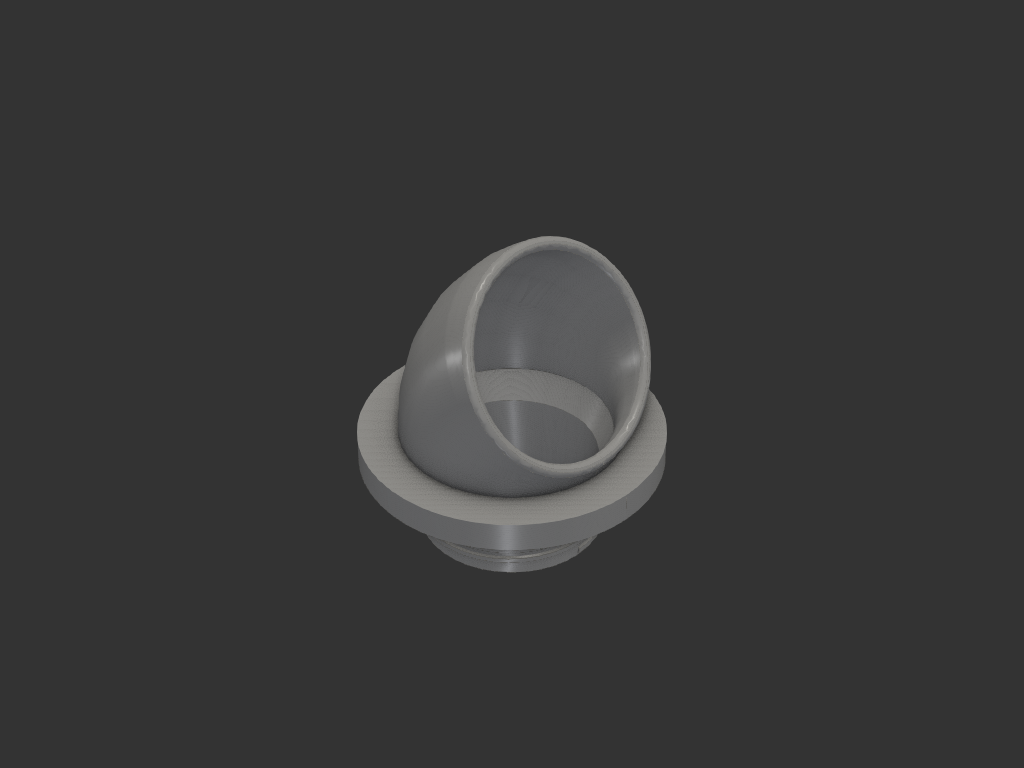
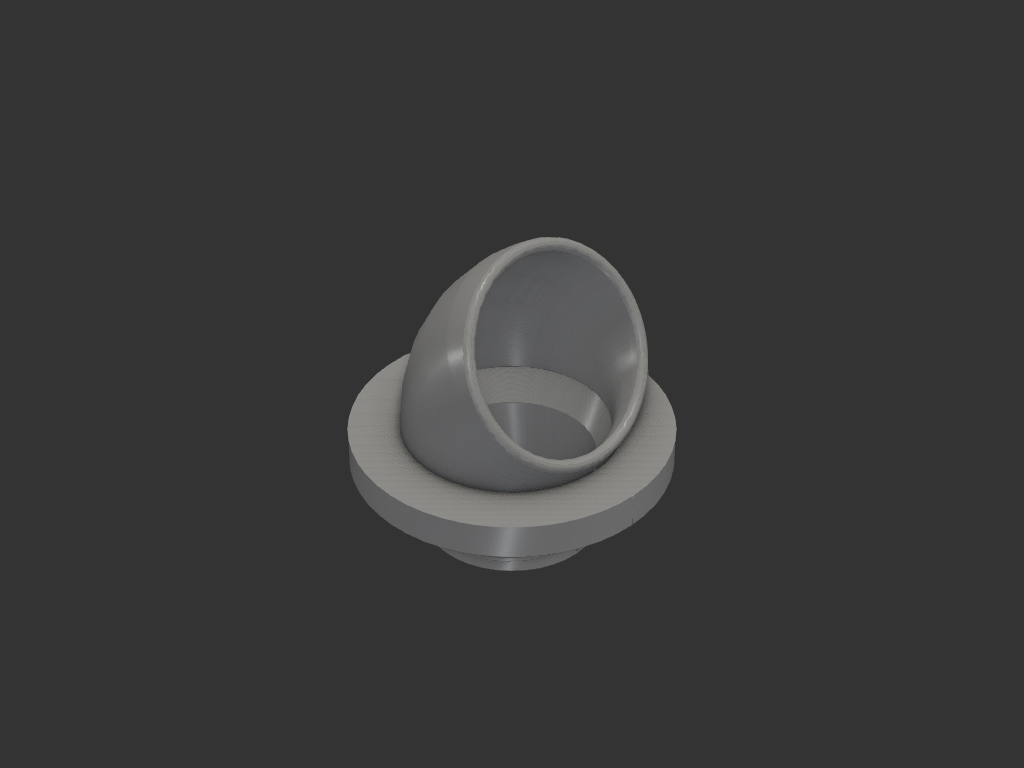
주방/식기세척기관_싱크대커버: 보유 오링(38x3.5)에 맞춰 홈 재설계
사용자 보유 오링이 내경 38 일 때 굵기가 3.5 였다. 2.4 로 잡아둔 홈을
다시 팠다 — 중심 ⌀41.5, 폭 4.55, 깊이 2.66 (눌림 24%, 채움 79%).

홈이 ⌀36.95~46.05 까지 나가면서 따라 바뀐 것:
- 플랜지 ⌀50x5 → ⌀54x6. 바깥 테두리 4mm 확보
- 이음 모따기 ⌀35 → ⌀34. 홈 안쪽 벽이 0.98 → 1.48mm
- 두께를 6 으로 올린 이유는 최소 단면이 "두께 − 홈 깊이" 이기 때문이다.
  5 면 유효 2.34 로 15.4 MPa, 6 이면 3.34 로 7.6 MPa (여유 6.6 배)

보어 전 구간 관통 재확인.

Claude-Session: https://claude.ai/code/session_01ADtXUDQy3sb4YV2DNysYDr

Changed region(s): [[0.3125, 0.4375, 0.6875, 0.7188], [0.4688, 0.7188, 0.5312, 0.75]]

diff --git a/models/주방/식기세척기관_싱크대커버/params.py b/models/주방/식기세척기관_싱크대커버/params.py
@@ -55,8 +55,10 @@ THREAD_EMB = 0.2       # 나사산 뿌리를 칼라 속에 묻는 양.
 COLLAR_ROOT = COLLAR_OD - 2 * THREAD_DEPTH    # 30.2 — 나사 골지름
 
 # ---- 플랜지 (상판 위에 앉는 판) ----
-FLANGE_D = 50.0        # 46 → 50. 오링을 모따기 바깥으로 밀어내면서 커졌다
-FLANGE_T = 5.0         # 4 → 5. 조임 400N 에서 굽힘 5.0 → 3.2 MPa
+FLANGE_D = 54.0        # 오링 굵기 3.5 를 쓰게 되어 홈이 ⌀46.05 까지 나간다.
+                       # 바깥 테두리 4mm 를 남기려면 ⌀54 가 필요하다
+FLANGE_T = 6.0         # 홈이 2.66 깊어져 최소 단면이 두께−홈깊이 다.
+                       # 5 면 유효 2.34 로 15.4 MPa, 6 이면 3.34 로 7.6 MPa
 FLANGE_R = 1.5         # 윗 모서리 라운드
 
 # 칼라–플랜지 이음이 **가장 빠듯한 곳**이다. ⌀31 에서 ⌀46 으로 꺾이는 직각 턱에
@@ -64,19 +66,18 @@ FLANGE_R = 1.5         # 윗 모서리 라운드
 # 공칭 5.1 MPa 에 집중 3 배면 15 MPa, 층간 강도 30 의 절반까지 올라간다.
 # 릴리프를 파서 그 안에 필렛을 넣으면 8 MPa 로 내려간다 (여유 3.8 배).
 # 릴리프는 오링 홈 안쪽 가장자리(⌀35.9)를 침범하지 않아야 한다
-CHAM_D = 35.0          # 칼라–플랜지 이음을 **45도 모따기**로 푼다.
+CHAM_D = 34.0          # 칼라–플랜지 이음을 **45도 모따기**로 푼다.
                        # 필렛을 쓰려 했으나 릴리프 안쪽이 칼라와 정확히 접해
                        # 모서리가 안 생겨 필렛이 안 걸렸고, 깔때기와 겹쳐
                        # 살을 0.6mm 로 깎기까지 했다.
                        # 모따기는 집중계수를 3 → 1.8 로 낮추고(15 → 9 MPa),
                        # 45도라 칼라를 아래로 두고 뽑을 때 **자기지지**다.
-                       # 상판에 닿는 면은 ⌀35~46 이 되고 오링 홈(⌀35.9~40.4)이
-                       # 그 안에 0.45mm 여유로 들어간다
+                       # 상판에 닿는 면은 ⌀34~54. 오링 홈(⌀36.95~46.05) 안쪽에
+                       # 벽이 1.48mm 남는다 (⌀35 면 0.98 로 얇았다)
 
 # ---- 오링 (내경 35 × 굵기 2.5 실리콘) ----
-ORING_ID = 38.0        # 35 → 38. 홈 안쪽 벽이 이음 모따기(끝 ⌀35)에 먹혔다.
-                       # 지금은 홈 안쪽이 ⌀37.3 이라 벽이 1.14mm 남는다
-ORING_CORD = 2.4       # 미터 오링 키트에 흔한 굵기
+ORING_ID = 38.0        # **사용자 보유 오링**: 내경 38 일 때 굵기가 3.5 다
+ORING_CORD = 3.5       # 보유품 실측. 홈 폭·깊이가 여기서 따라 나온다
 ORING_MEAN = ORING_ID + ORING_CORD       # 37.5 — 홈 중심 지름
 ORING_W = ORING_CORD * 1.3               # 3.25 — 홈 폭
 ORING_DEPTH = ORING_CORD * 0.76          # 1.90 — 눌림 24%

diff --git a/models/주방/식기세척기관_싱크대커버/export.py b/models/주방/식기세척기관_싱크대커버/export.py
@@ -14,7 +14,7 @@
   nut    바닥을 bed 에. 나사산이 수직이라 오버행 없음
 
 재료: PETG. 배수가 뜨거운 물이고(Tg 80도) 습한 자리다. PLA 는 Tg 60도라 부적합.
-오링: **내경 38 × 굵기 2.4 실리콘**. 홈이 그 치수로 파여 있다.
+오링: **내경 38 × 굵기 3.5 실리콘** (보유품). 홈이 그 치수로 파여 있다.
 """
 
 from pathlib import Path

diff --git a/models/주방/식기세척기관_싱크대커버/README.md b/models/주방/식기세척기관_싱크대커버/README.md
@@ -37,7 +37,7 @@
 
 | | 파츠 | 역할 | 무게 |
 |---|---|---|---|
-| ① | `cover` | 상판 위 플랜지(아랫면 오링 홈) + 엘보 + 구멍을 지나는 칼라 | 14.6 g |
+| ① | `cover` | 상판 위 플랜지(아랫면 오링 홈) + 엘보 + 구멍을 지나는 칼라 | 17.6 g |
 | ② | `nut` | 아래에서 칼라에 끼워 올려 조인다. 상판을 물고 오링을 누른다 | 5.7 g |
 
 조립:
@@ -100,16 +100,16 @@
 | 칼라 길이 | 13 (파일럿 2 + 빈 1 + 나사 9) | 파일럿 ⌀31.0 이 구멍 안에서 중심을 잡는다 |
 | 나사 | 피치 2.0, 깊이 **0.4**, 골 ⌀30.2 | 골에서 남는 살 0.85. **4.5 바퀴** 조임 |
 | 나사 여유 | 0.2 (반지름) | |
-| 플랜지 | ⌀**50** × **5** | 오링을 이음 모따기 바깥으로 밀어내며 커졌다 |
-| 이음 모따기 | ⌀31 → ⌀35, **45°** | 가장 빠듯한 곳. 집중계수 3 → 1.8 |
-| 오링 홈 | 중심 ⌀40.4, 폭 3.12, 깊이 1.82 | **내경 38 × 굵기 2.4**, 눌림 24% |
+| 플랜지 | ⌀**54** × **6** | 오링 굵기 3.5 에 맞춰 커졌다 |
+| 이음 모따기 | ⌀31 → ⌀34, **45°** | 가장 빠듯한 곳. 집중계수 3 → 1.8 |
+| 오링 홈 | 중심 ⌀41.5, 폭 4.55, 깊이 2.66 | **내경 38 × 굵기 3.5** (보유품), 눌림 24%, 채움 79% |
 | 엘보 | R 22, 60°, 보어 ⌀33, 벽 2 | |
 | 출구 나팔 | R 2.5 | 꺾이는 지점의 날카로운 모서리를 없앤다 |
 | 너트 | ⌀42 × 9, 홈 8 개 | 손으로 돌린다 |
 | 상판 위 높이 | **38.8** | |
 
-오링 홈 안쪽 가장자리가 ⌀37.3 이라 구멍(31.5) 바깥 **단단한 상판 위에** 온전히
-앉는다. 홈 안쪽 벽 1.14mm, 바깥 테두리 3.24mm. 조임은 나사라서 상판 두께 편차를 그대로 흡수한다.
+오링 홈 안쪽 가장자리가 ⌀36.95 라 구멍(31.5) 바깥 **단단한 상판 위에** 온전히
+앉는다. 홈 안쪽 벽 1.48mm, 바깥 테두리 3.98mm. 조임은 나사라서 상판 두께 편차를 그대로 흡수한다.
 
 ## 계산
 
@@ -129,7 +129,7 @@
 | 부위 | 응력 | 여유 |
 |---|---|---|
 | 나사산 전단 (4.5 바퀴, 299 mm²) | 1.34 MPa | 22 배 |
-| 플랜지 굽힘 (두께 5, 팔 2.70) | 2.36 MPa | 21 배 |
+| 플랜지 굽힘 (유효 두께 3.34 = 6 − 홈 2.66) | 7.6 MPa | 6.6 배 |
 | 칼라 인장 (단면 78 mm²) | 5.1 MPa | |
 | **칼라–플랜지 이음** (모따기 Kt 1.8) | **9.2 MPa** | **3.3 배** ← 여기 |
 
@@ -186,12 +186,12 @@
 
 | 위치 | 내용 |
 |---|---|
-| 플랜지 아랫면 | ⌀35 → ⌀50 턱, **7.5mm 수평 오버행**. 피할 방법이 없다 — 구멍이 ⌀31 로 묶고 오링이 ⌀50 을 요구한다 |
+| 플랜지 아랫면 | ⌀34 → ⌀54 턱, **10mm 수평 오버행**. 피할 방법이 없다 — 구멍이 ⌀31 로 묶고 오링이 ⌀54 를 요구한다 |
 | 엘보 θ 45~60° | 호 길이 **5.8mm** 뿐 |
 | 이음 모따기 | **불필요** — 45° 라 자기지지 |
 
-**실링면은 서포트를 안 탄다.** 오링 홈은 폭 3.12mm 짜리 천장이라
-슬라이서가 브리지로 넘어간다. 서포트는 홈 바깥 테두리(⌀43.5~50)에만
+**실링면은 서포트를 안 탄다.** 오링 홈은 폭 4.55mm 짜리 천장이라
+슬라이서가 브리지로 넘어간다. 서포트는 홈 바깥 테두리(⌀46~54)에만
 닿는데 거기는 그냥 상판에 얹히는 자리다.
 
 슬라이서에서 **"서포트: 빌드플레이트 위에만"** 으로 두면 보어 안에도
@@ -247,7 +247,10 @@ x≈6mm 이고 접지 폭이 30mm 라 쓰러지지는 않는다. 나사 아래 1
 
 ## 상태
 
-- **iter_008 — 현재.** 이음 모따기를 보어보다 **먼저** 하도록 순서 수정.
+- **iter_009 — 현재.** 보유 오링(내경 38 × **굵기 3.5**)에 맞춰 홈을 다시 팠다.
+  홈이 깊고 넓어져 플랜지가 ⌀50×5 → **⌀54×6**, 이음 모따기 ⌀35 → ⌀34.
+  얇아진 플랜지 유효 단면(두께−홈깊이)을 6mm 로 보완. 출력 대기
+- iter_008 — 이음 모따기를 보어보다 **먼저** 하도록 순서 수정.
   Cone(ADD) 이 보어를 z 0~2 구간에서 막고 있었다. 출력 대기
 - iter_007 — 이음 45° 모따기 + 플랜지 ⌀50×5 + 나사 4.5 바퀴로 조임 강도 보강
 - 출력 후 확인할 것: 나사 0.4 깊이가 살아나는지, 굵은 부분(⌀25.5)이 엘보를
